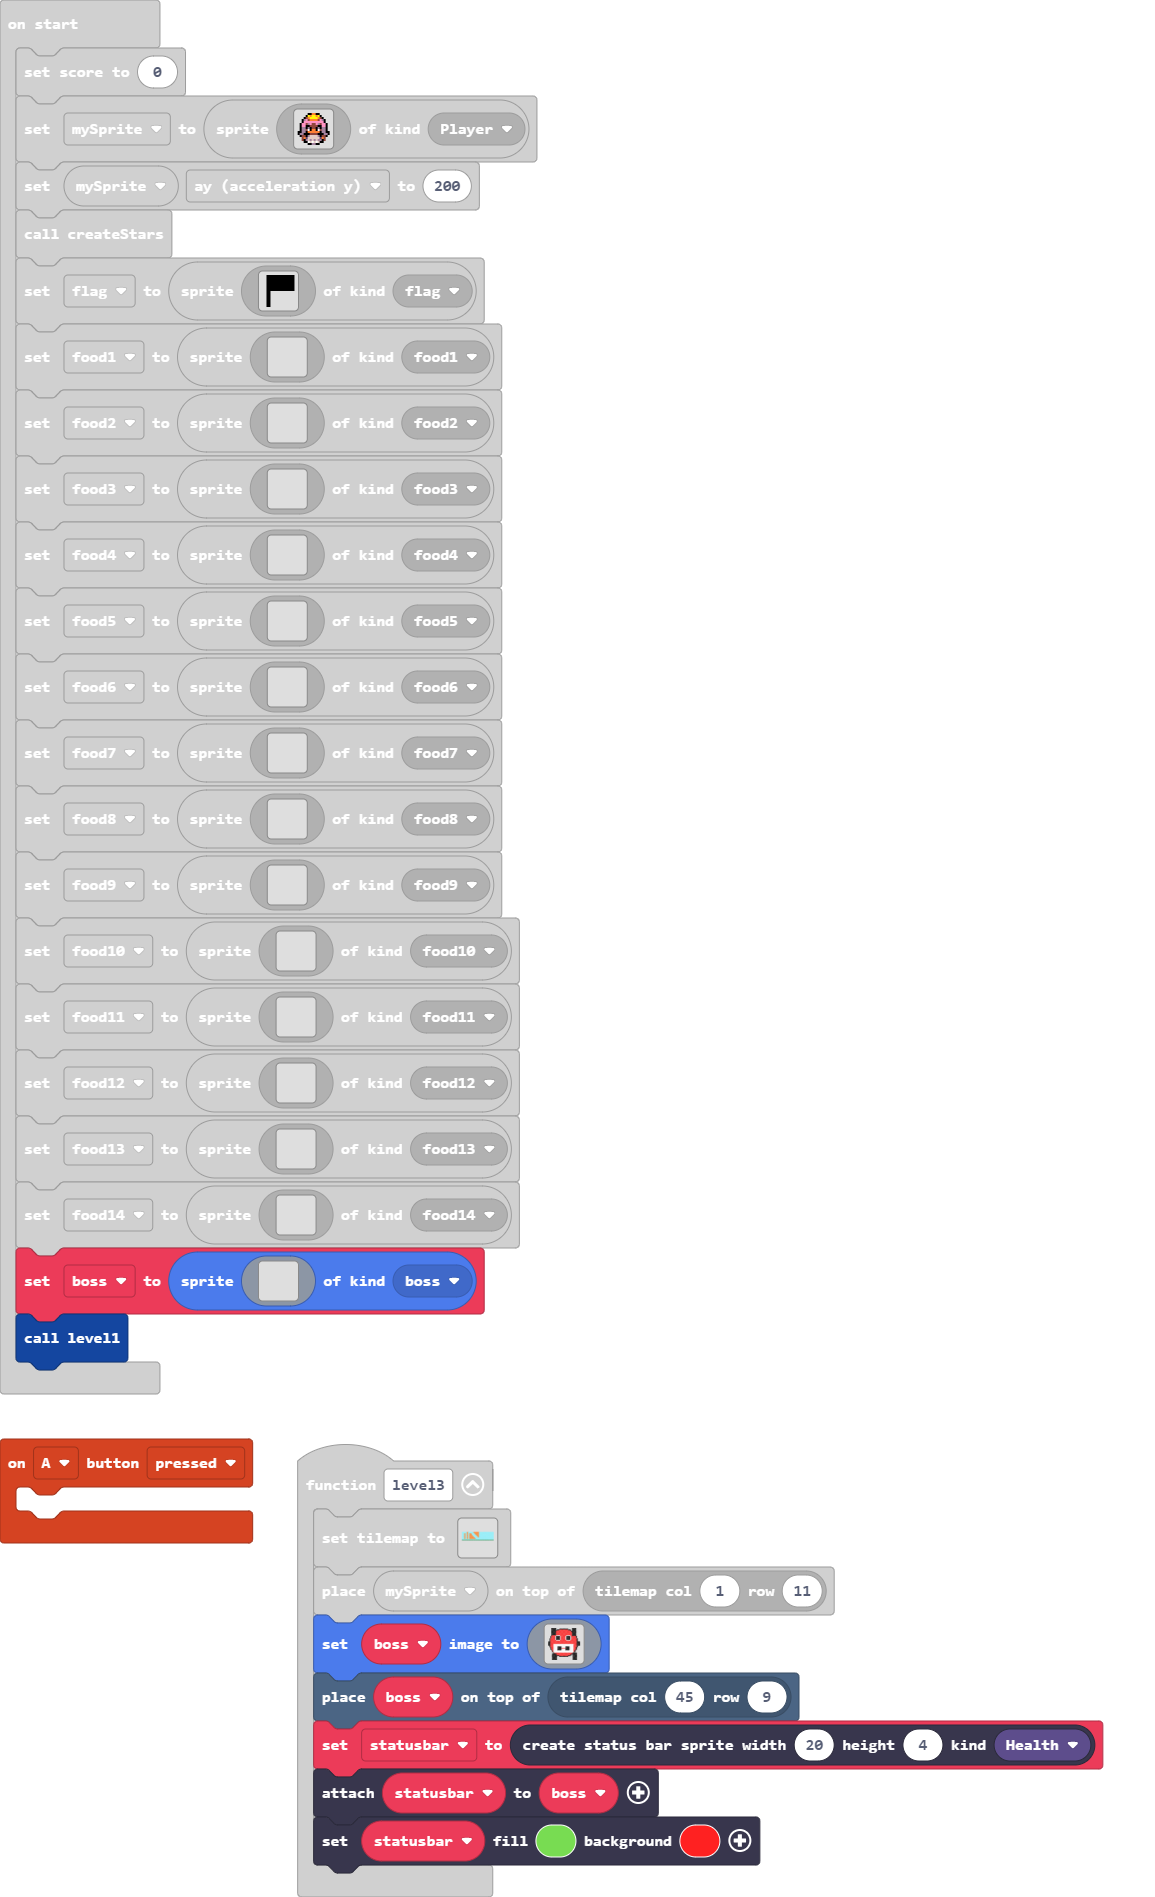
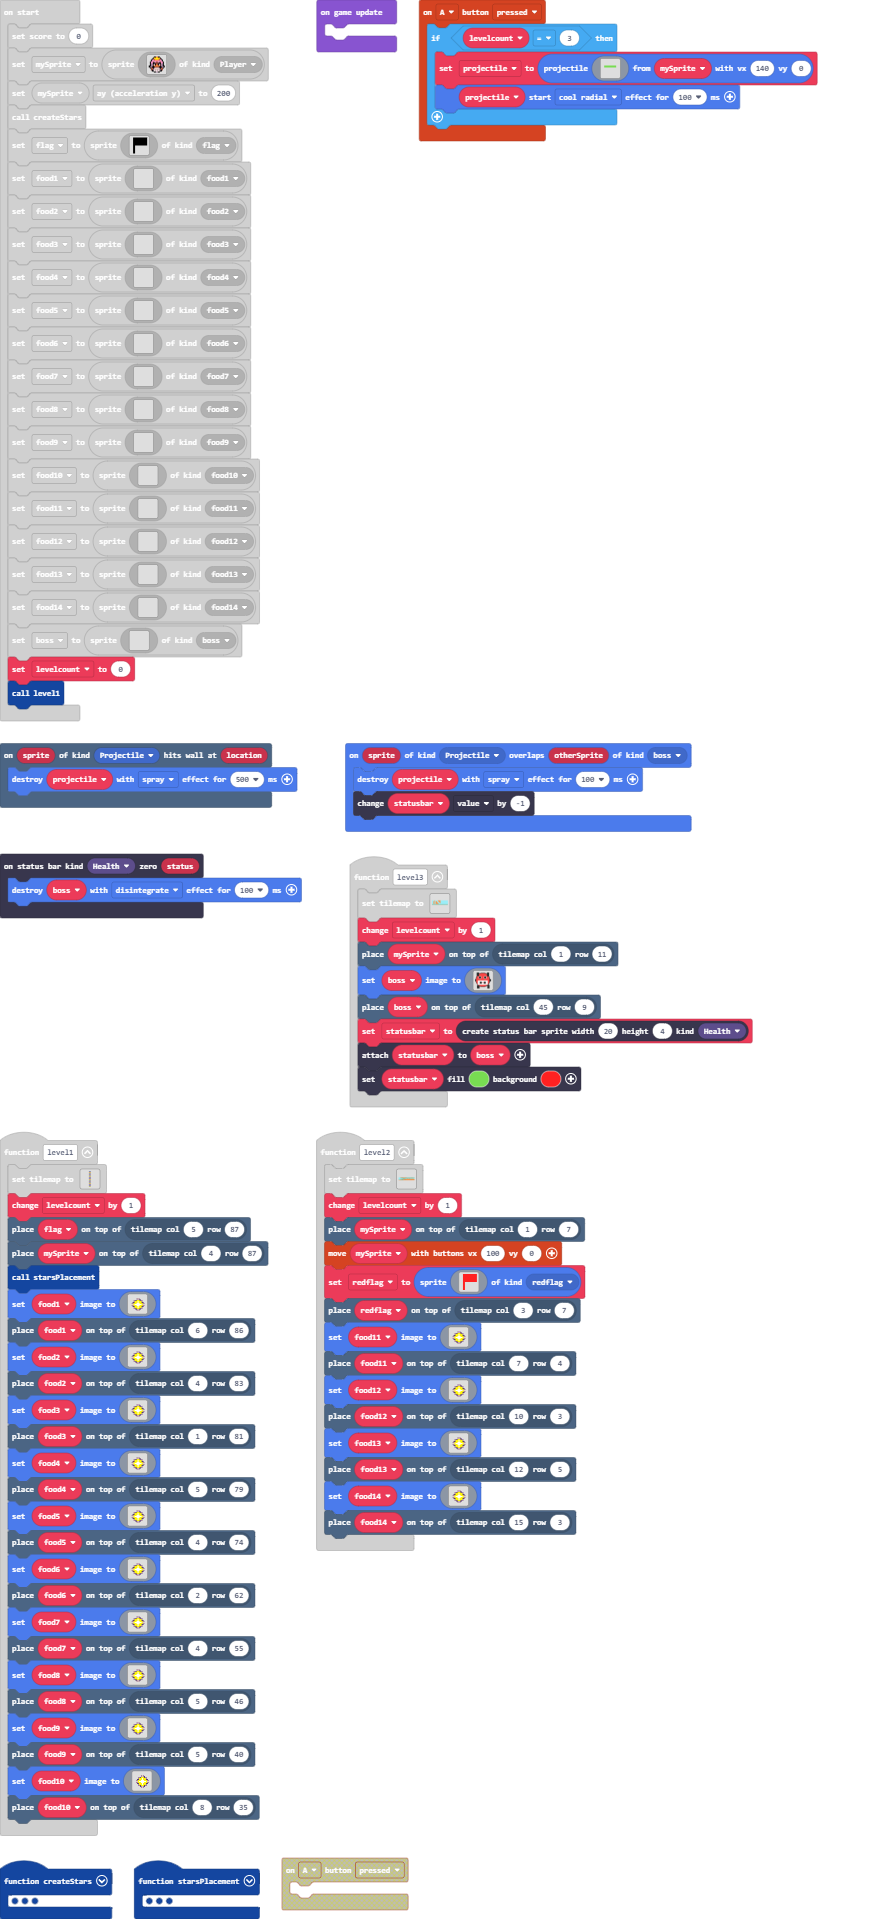
Update main.blocks, main.ts, tilemap.g.jres, tilemap.g.ts

diff --git a/main.ts b/main.ts
@@ -25,6 +25,7 @@ namespace SpriteKind {
     export const food13 = SpriteKind.create()
     export const food14 = SpriteKind.create()
     export const boss = SpriteKind.create()
+    export const beam = SpriteKind.create()
 }
 scene.onOverlapTile(SpriteKind.star5, sprites.dungeon.hazardLava1, function (sprite, location) {
     star5.destroy()
@@ -185,6 +186,7 @@ sprites.onOverlap(SpriteKind.Player, SpriteKind.food14, function (sprite, otherS
 })
 function level1 () {
     tiles.setTilemap(tilemap`level1`)
+    levelcount += 1
     tiles.placeOnTile(flag, tiles.getTileLocation(5, 87))
     tiles.placeOnTile(mySprite, tiles.getTileLocation(4, 87))
     starsPlacement()
@@ -380,7 +382,27 @@ function level1 () {
     tiles.placeOnTile(food10, tiles.getTileLocation(8, 35))
 }
 controller.A.onEvent(ControllerButtonEvent.Pressed, function () {
-	
+    if (levelcount == 3) {
+        projectile = sprites.createProjectileFromSprite(img`
+            . . . . . . . . . . . . . . . . 
+            . . . . . . . . . . . . . . . . 
+            . . . . . . . . . . . . . . . . 
+            . . . . . . . . . . . . . . . . 
+            . . . . . . . . . . . . . . . . 
+            . . 7 7 7 7 7 7 7 7 7 7 7 7 . . 
+            . . 7 7 7 7 7 7 7 7 7 7 7 7 . . 
+            . . . . . . . . . . . . . . . . 
+            . . . . . . . . . . . . . . . . 
+            . . . . . . . . . . . . . . . . 
+            . . . . . . . . . . . . . . . . 
+            . . . . . . . . . . . . . . . . 
+            . . . . . . . . . . . . . . . . 
+            . . . . . . . . . . . . . . . . 
+            . . . . . . . . . . . . . . . . 
+            . . . . . . . . . . . . . . . . 
+            `, mySprite, 140, 0)
+        projectile.startEffect(effects.coolRadial, 100)
+    }
 })
 scene.onOverlapTile(SpriteKind.Player, sprites.dungeon.hazardLava0, function (sprite, location) {
     mySprite.destroy()
@@ -400,6 +422,7 @@ sprites.onOverlap(SpriteKind.Player, SpriteKind.food6, function (sprite, otherSp
 })
 function level3 () {
     tiles.setTilemap(tilemap`level4`)
+    levelcount += 1
     tiles.placeOnTile(mySprite, tiles.getTileLocation(1, 11))
     boss.setImage(img`
         ....ffffff....................fffff.....
@@ -453,6 +476,7 @@ scene.onOverlapTile(SpriteKind.star4, sprites.dungeon.hazardLava1, function (spr
 })
 function level2 () {
     tiles.setTilemap(tilemap`level3`)
+    levelcount += 1
     tiles.placeOnTile(mySprite, tiles.getTileLocation(1, 7))
     controller.moveSprite(mySprite, 100, 0)
     redflag = sprites.create(img`
@@ -563,6 +587,9 @@ sprites.onOverlap(SpriteKind.star3, SpriteKind.Player, function (sprite, otherSp
     info.changeScoreBy(1)
     star3.destroy()
 })
+statusbars.onZero(StatusBarKind.Health, function (status) {
+    boss.destroy(effects.disintegrate, 100)
+})
 sprites.onOverlap(SpriteKind.star6, SpriteKind.Player, function (sprite, otherSprite) {
     info.changeScoreBy(1)
     star6.destroy()
@@ -608,9 +635,16 @@ sprites.onOverlap(SpriteKind.Player, SpriteKind.food1, function (sprite, otherSp
     food1.destroy()
     info.changeScoreBy(1)
 })
+sprites.onOverlap(SpriteKind.Projectile, SpriteKind.boss, function (sprite, otherSprite) {
+    projectile.destroy()
+    statusbar.value += -1
+})
 sprites.onOverlap(SpriteKind.Player, SpriteKind.food7, function (sprite, otherSprite) {
     food7.destroy()
     info.changeScoreBy(1)
+})
+scene.onHitWall(SpriteKind.Projectile, function (sprite, location) {
+    projectile.destroy()
 })
 function starsPlacement () {
     star.setImage(img`
@@ -793,6 +827,7 @@ sprites.onOverlap(SpriteKind.Player, SpriteKind.food12, function (sprite, otherS
 })
 let statusbar: StatusBarSprite = null
 let redflag: Sprite = null
+let projectile: Sprite = null
 let star7: Sprite = null
 let star6: Sprite = null
 let star4: Sprite = null
@@ -800,6 +835,7 @@ let star3: Sprite = null
 let star2: Sprite = null
 let star: Sprite = null
 let star5: Sprite = null
+let levelcount = 0
 let boss: Sprite = null
 let food14: Sprite = null
 let food13: Sprite = null
@@ -1126,7 +1162,11 @@ boss = sprites.create(img`
     . . . . . . . . . . . . . . . . 
     . . . . . . . . . . . . . . . . 
     `, SpriteKind.boss)
+levelcount = 0
 level1()
+game.onUpdate(function () {
+	
+})
 forever(function () {
     controller.moveSprite(mySprite, 100, 0)
     scene.cameraFollowSprite(mySprite)

diff --git a/tilemap.g.ts b/tilemap.g.ts
@@ -160,17 +160,17 @@ namespace myTiles {
 `, [myTiles.transparency16,sprites.builtin.forestTiles0,sprites.dungeon.hazardLava0,myTiles.tile1], TileScale.Sixteen);
             case "level4":
             case "level4":return tiles.createTilemap(hex`320010000303030303030303020203030303030303030202020202020202020303030303030303030303030303030303030303030303030303030303030302020303030303030303030202020202020202030303030303030303030303030303030303030303030303030303020203030202030302020203030303030202020202020203030303030303030303030303030303030303030303030303030302020303020203030202020203030303030202020202020303030303030303030303030303030303030303030303030303030202030302020303020202020303030303030202020202030303030303030303030303030303030303030303030303030303020203030202030302020202020303030303030202020203030303030303030303030303030303030303030303030303030302020303020203030202020202020303030303030202020303030303030303030303030303030303030303030303030303030202030302020303020202020202020303030303030202030303030303030303030303030303030303030303030303030303020203030202030302020202020202020303030303030203030303030303030303030303030303030303030303030303030302020303020203030202020202020202020303030303030303030303030303030303030303030303030303030303030303030202030302020303020202020202020202020303030303030303030303030303030303030303030303030303030303030303030303030303030303030303030303030303030303030303030303030303030303030303030303030303030303030101010101010101010101010101010101010101010101010101010101010101010101010101010101010101010101010101000000000000000000000000000000000000000000000000000000000000000000000000000000000000000000000000000000000000000000000000000000000000000000000000000000000000000000000000000000000000000000000000000000000000000000000000000000000000000000000000000000000000000000000000000000000000000000000000000000000000`, img`
-..................................................
-..................................................
-..................................................
-..................................................
-..................................................
-..................................................
-..................................................
-..................................................
-..................................................
-..................................................
-..................................................
+........22........222222222.......................
+........22.........22222222.......................
+....22..22..222.....2222222.......................
+....22..22..2222.....222222.......................
+....22..22..2222......22222.......................
+....22..22..22222......2222.......................
+....22..22..222222......222.......................
+....22..22..2222222......22.......................
+....22..22..22222222......2.......................
+....22..22..222222222.............................
+....22..22..2222222222............................
 ..................................................
 22222222222222222222222222222222222222222222222222
 ..................................................
